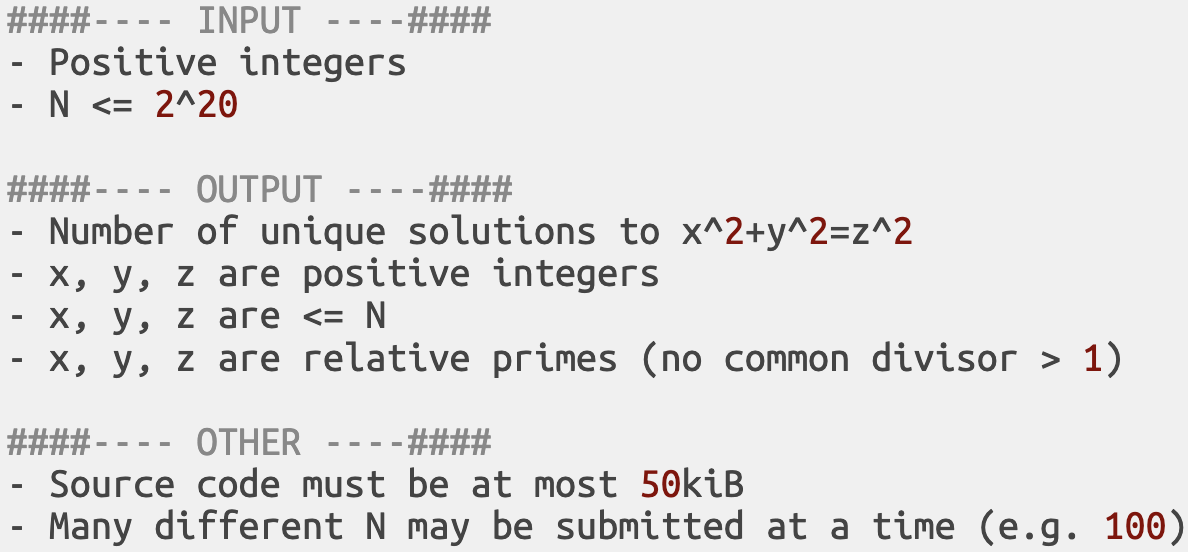
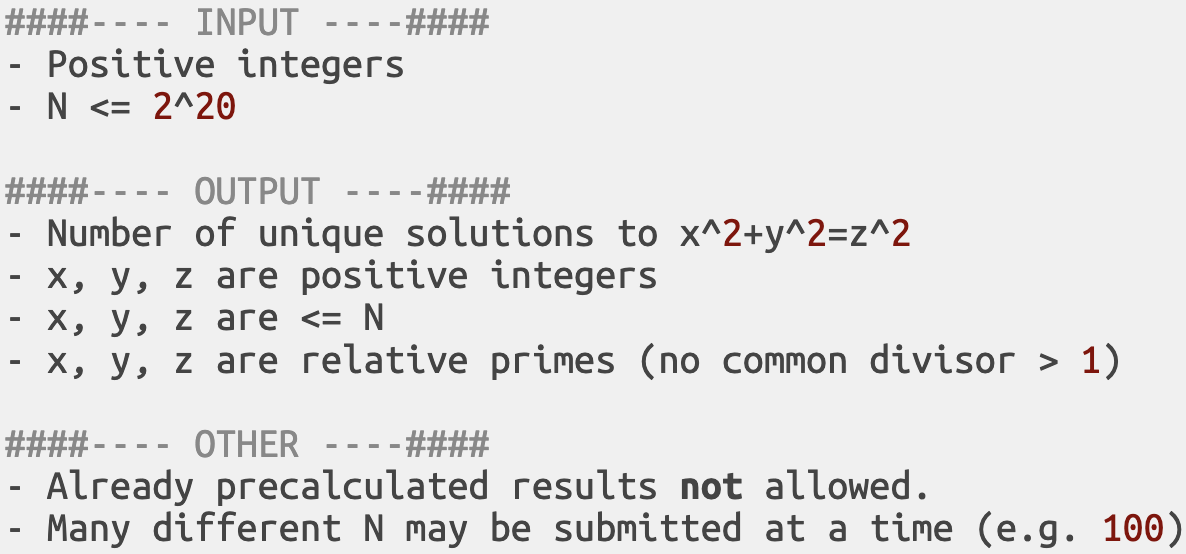
optimise: update 2 images

diff --git a/optimise/final.md b/optimise/final.md
@@ -38,8 +38,6 @@ We could place a strict limit on the source size, but basically precalculating 1
 ## Size of input
 To simplify we will only consider N=2^20 at the beginning, but later we will assume the input to be 100k random numbers < 2^20.
 
-## TODO change image... instead of 50KiB just say is not allowed reading the results from a file and printing them.
-
 ---
 
 ## Solutions (first 48 samples)
@@ -303,8 +301,6 @@ The basic philosophy behind this is similar to code hoisting/strength reduction.
 ???
 One condition that must be fulfilled is that X, Y and Z must all be co-prime. That means that at most one number in any given triplet can be even (i.e. divisible by 2). This let's us increment loops by 2 instead of 1 each iteration in order to keep variables either always even or odd as required.
 
-## TODO fix screenshot match the code! It should be +2 not +1.
-
 ---
 
 ## Interlude: Compilers
@@ -335,6 +331,7 @@ PyPy is just one of many tools to speedup Python execution. This presentation is
 - Other obvious flags would be `march`, but I wanted to keep the changes with original Python implementation minimal so the comparison was as fair as possible.
 
 ---
+
 <embed style="margin-left:-2rem" src="plots/plot_eta7.html" width="110%" height="100%"></embed>
 
 ???
@@ -345,6 +342,7 @@ But, just running v0 with PyPy instead of Python3 we already get a **10x speedup
 BTW: we saw Python3 went from 100k years to 200. A 500x speedup. Python v0 vs **PyPy v7 is >46000x speedup**, it would take **2.1 years**.
 
 ---
+
 <embed style="margin-left:-2rem" src="plots/plot_speedup7.html" width="110%" height="100%"></embed>
 
 ???
@@ -443,6 +441,7 @@ Y, the results from range are integers. xxN, the result of a SQRT is a floating 
 If we make the conversion explicit and we hoist it outside of the loop we will be saving a conversion every iteration.
 
 Ok, how fast do we get now?
+
 ---
 
 ## Interlude: Profiling
@@ -584,6 +583,7 @@ One could also go on with incremental optimisations and try to reduce I/O costs 
 References: many other different ways exist to generate the results, check: https://en.wikipedia.org/wiki/Formulas_for_generating_Pythagorean_triples and https://en.wikipedia.org/wiki/Tree_of_primitive_Pythagorean_triples for examples.
 
 ---
+
 <embed style="margin-left:-2rem" src="plots/plot_eta14.html" width="110%" height="100%"></embed>
 
 ???
@@ -598,6 +598,7 @@ Here we introduce C++ ported versions, because it is relevant how faster a mere 
 We need to zoom out so much to see the last values under 1 second. I think the next one is easier to interpret.
 
 ---
+
 <embed style="margin-left:-2rem" src="plots/plot_speedup14.html" width="110%" height="100%"></embed>
 
 ???
@@ -611,6 +612,7 @@ Speedups for C++ v13-14 with O3
 - **v14 unordered_map   0.13s** (more similar to Python dicts)
 
 ---
+
 <embed style="margin-left:-2rem" src="plots/plot_time_complexity_all_scaled.html" width="110%" height="100%"></embed>
 
 ???
@@ -629,6 +631,7 @@ But even the **fastest constant algorithm is slower for very small Ns** than les
 But not only that. Was it really a **requirement** that it should take < 1s? Was maybe < 1 minute ok? If it's a **batch process** maybe is fine. Before knowing we can afford the price to pay, we first must know that it does not come for free!
 
 ---
+
 <embed style="margin-left:-2rem" src="plots/plot_speedup_vs14.html" width="110%" height="100%"></embed>
 
 ???
